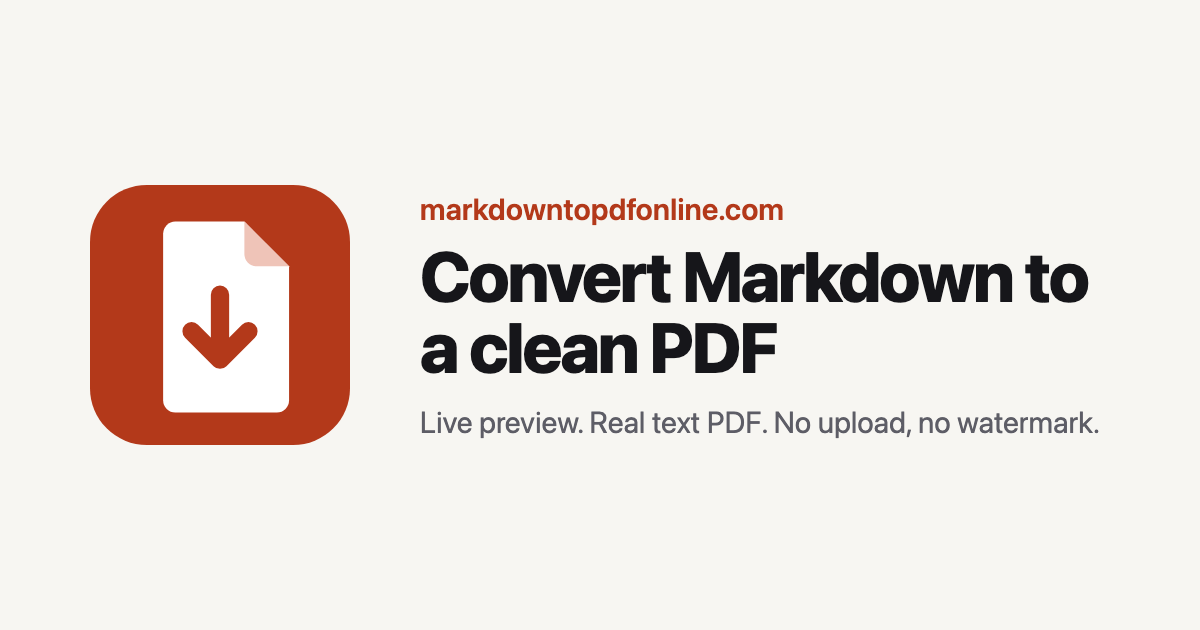
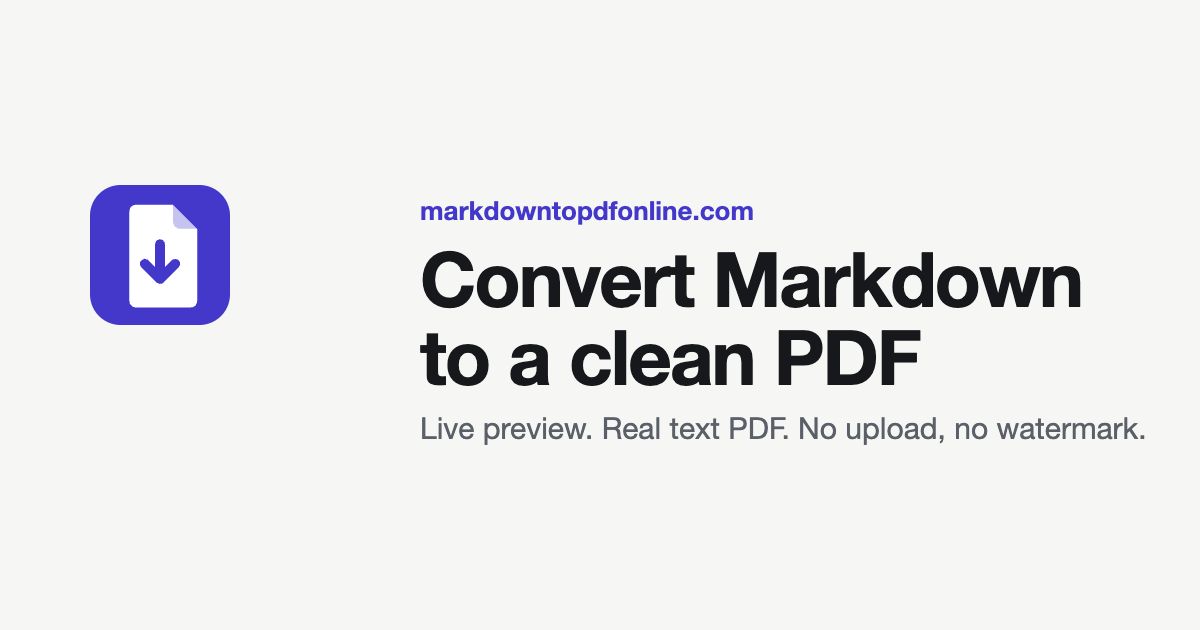
Restyle: refined minimal skin and accent

Changed region(s): [[0.3392, 0.3921, 0.9558, 0.7238], [0.0617, 0.2714, 0.3083, 0.7238], [0.3392, 0.3016, 0.6475, 0.3619]]

diff --git a/src/styles/global.css b/src/styles/global.css
@@ -3,6 +3,7 @@
 @custom-variant dark (&:where([data-theme="dark"], [data-theme="dark"] *));
 
 @theme inline {
+  --color-edge: var(--edge);
   --color-brand: var(--brand);
   --color-brand-ink: var(--brand-ink);
   --color-brand-soft: var(--brand-soft);
@@ -17,28 +18,38 @@
 
 :root {
   color-scheme: light;
-  --paper: #f7f6f2;
+  --paper: #f6f7f5;
   --card: #ffffff;
-  --ink: #16161a;
-  --muted: #5d5d66;
-  --line: #e2e0d8;
-  --brand-ink: color-mix(in oklab, var(--brand) 82%, black);
-  --brand-soft: color-mix(in oklab, var(--brand) 10%, var(--paper));
+  --ink: #16181b;
+  --muted: #5b6068;
+  --line: #e3e5e1;
+  --line-strong: #c9ccc6;
+  --edge: #878c93;
+  --card-shadow: 0 1px 2px rgb(16 24 40 / .05), 0 8px 24px -12px rgb(16 24 40 / .10);
+  --brand-ink: color-mix(in oklab, var(--brand) 85%, black);
+  --brand-soft: color-mix(in oklab, var(--brand) 11%, var(--card));
 }
 :root[data-theme="dark"] {
   color-scheme: dark;
-  --paper: #0f1012;
-  --card: #17181b;
-  --ink: #ececea;
-  --muted: #a0a0a8;
-  --line: #2a2b30;
+  --paper: #0f1113;
+  --card: #17191c;
+  --ink: #eceeed;
+  --muted: #a3a8b0;
+  --line: #2a2d31;
+  --line-strong: #3a3e44;
+  --edge: #6b7078;
+  --card-shadow: none;
   --brand-ink: color-mix(in oklab, var(--brand) 55%, white);
-  --brand-soft: color-mix(in oklab, var(--brand) 18%, var(--paper));
+  --brand-soft: color-mix(in oklab, var(--brand) 14%, #121416);
 }
 
 html { background: var(--paper); scroll-padding-top: 5rem; }
 body { background: var(--paper); color: var(--ink); font-family: var(--font-sans); -webkit-font-smoothing: antialiased; text-rendering: optimizeLegibility; }
-:focus-visible { outline: 2px solid var(--brand-ink); outline-offset: 2px; border-radius: 4px; }
+:focus-visible { outline: 3px solid var(--brand-ink); outline-offset: 2px; border-radius: 4px; }
+.ad-slot { margin: 2rem auto 0; max-width: 728px; min-height: 90px; border: 1px dashed var(--line-strong); border-radius: 10px; padding: 1.25rem 0.5rem 0.5rem; position: relative; }
+.ad-slot::before { content: "Advertisement"; position: absolute; top: 0.25rem; left: 0.5rem; font-size: 11px; letter-spacing: .04em; color: var(--muted); }
+@media (max-width: 639px) { .ad-slot { min-height: 100px; max-width: 320px; } }
+@media print { .ad-slot { display: none !important; } }
 @media (prefers-reduced-motion: reduce) { * { transition: none !important; animation: none !important; scroll-behavior: auto !important; } }
 
 /* Long-form text: used by article and legal pages */

diff --git a/src/site.config.ts b/src/site.config.ts
@@ -14,7 +14,7 @@ export default {
   email: 'hello@markdowntopdfonline.com',       // contact email (shown on Contact and Privacy pages)
   ga4: '',                            // GA4 measurement ID, e.g. 'G-XXXXXXXXXX'. Empty = Google Analytics off
   adsense: '',                        // AdSense publisher ID, e.g. 'ca-pub-1234567890123456'. Empty = ads off
-  brand: '#b3391a',                   // brand color (hex)
+  brand: '#4338ca',                   // brand color (hex)
   locale: 'en-US',                    // BCP 47 language tag
   ogImage: '/og.png',                        // e.g. '/og.png' (1200x630 file in public/). Empty = no image
   category: 'DeveloperApplication',   // schema.org applicationCategory
